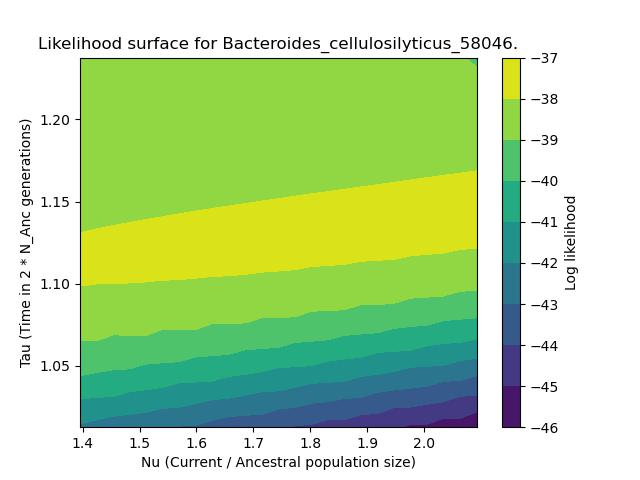
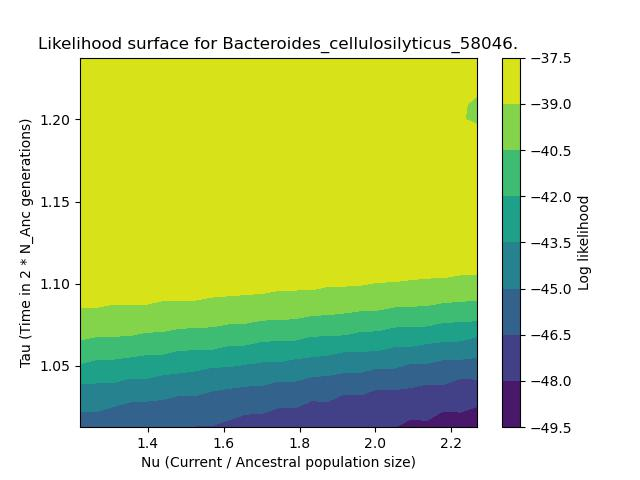
B. cell

diff --git a/Scripts/plot_likelihood.py b/Scripts/plot_likelihood.py
@@ -466,7 +466,7 @@ class PlotLikelihood():
 
                 npts = 25
 
-                x_range = numpy.linspace(x * 0.8, x * 1.2, npts)
+                x_range = numpy.linspace(x * 0.7, x * 1.3, npts)
                 # x_range = numpy.linspace(1.6, 2.4, npts)
                 y_range = numpy.linspace(y * 0.9, y * 1.1, npts)
                 # y_range = numpy.linspace(0.98, 1.04, npts)
